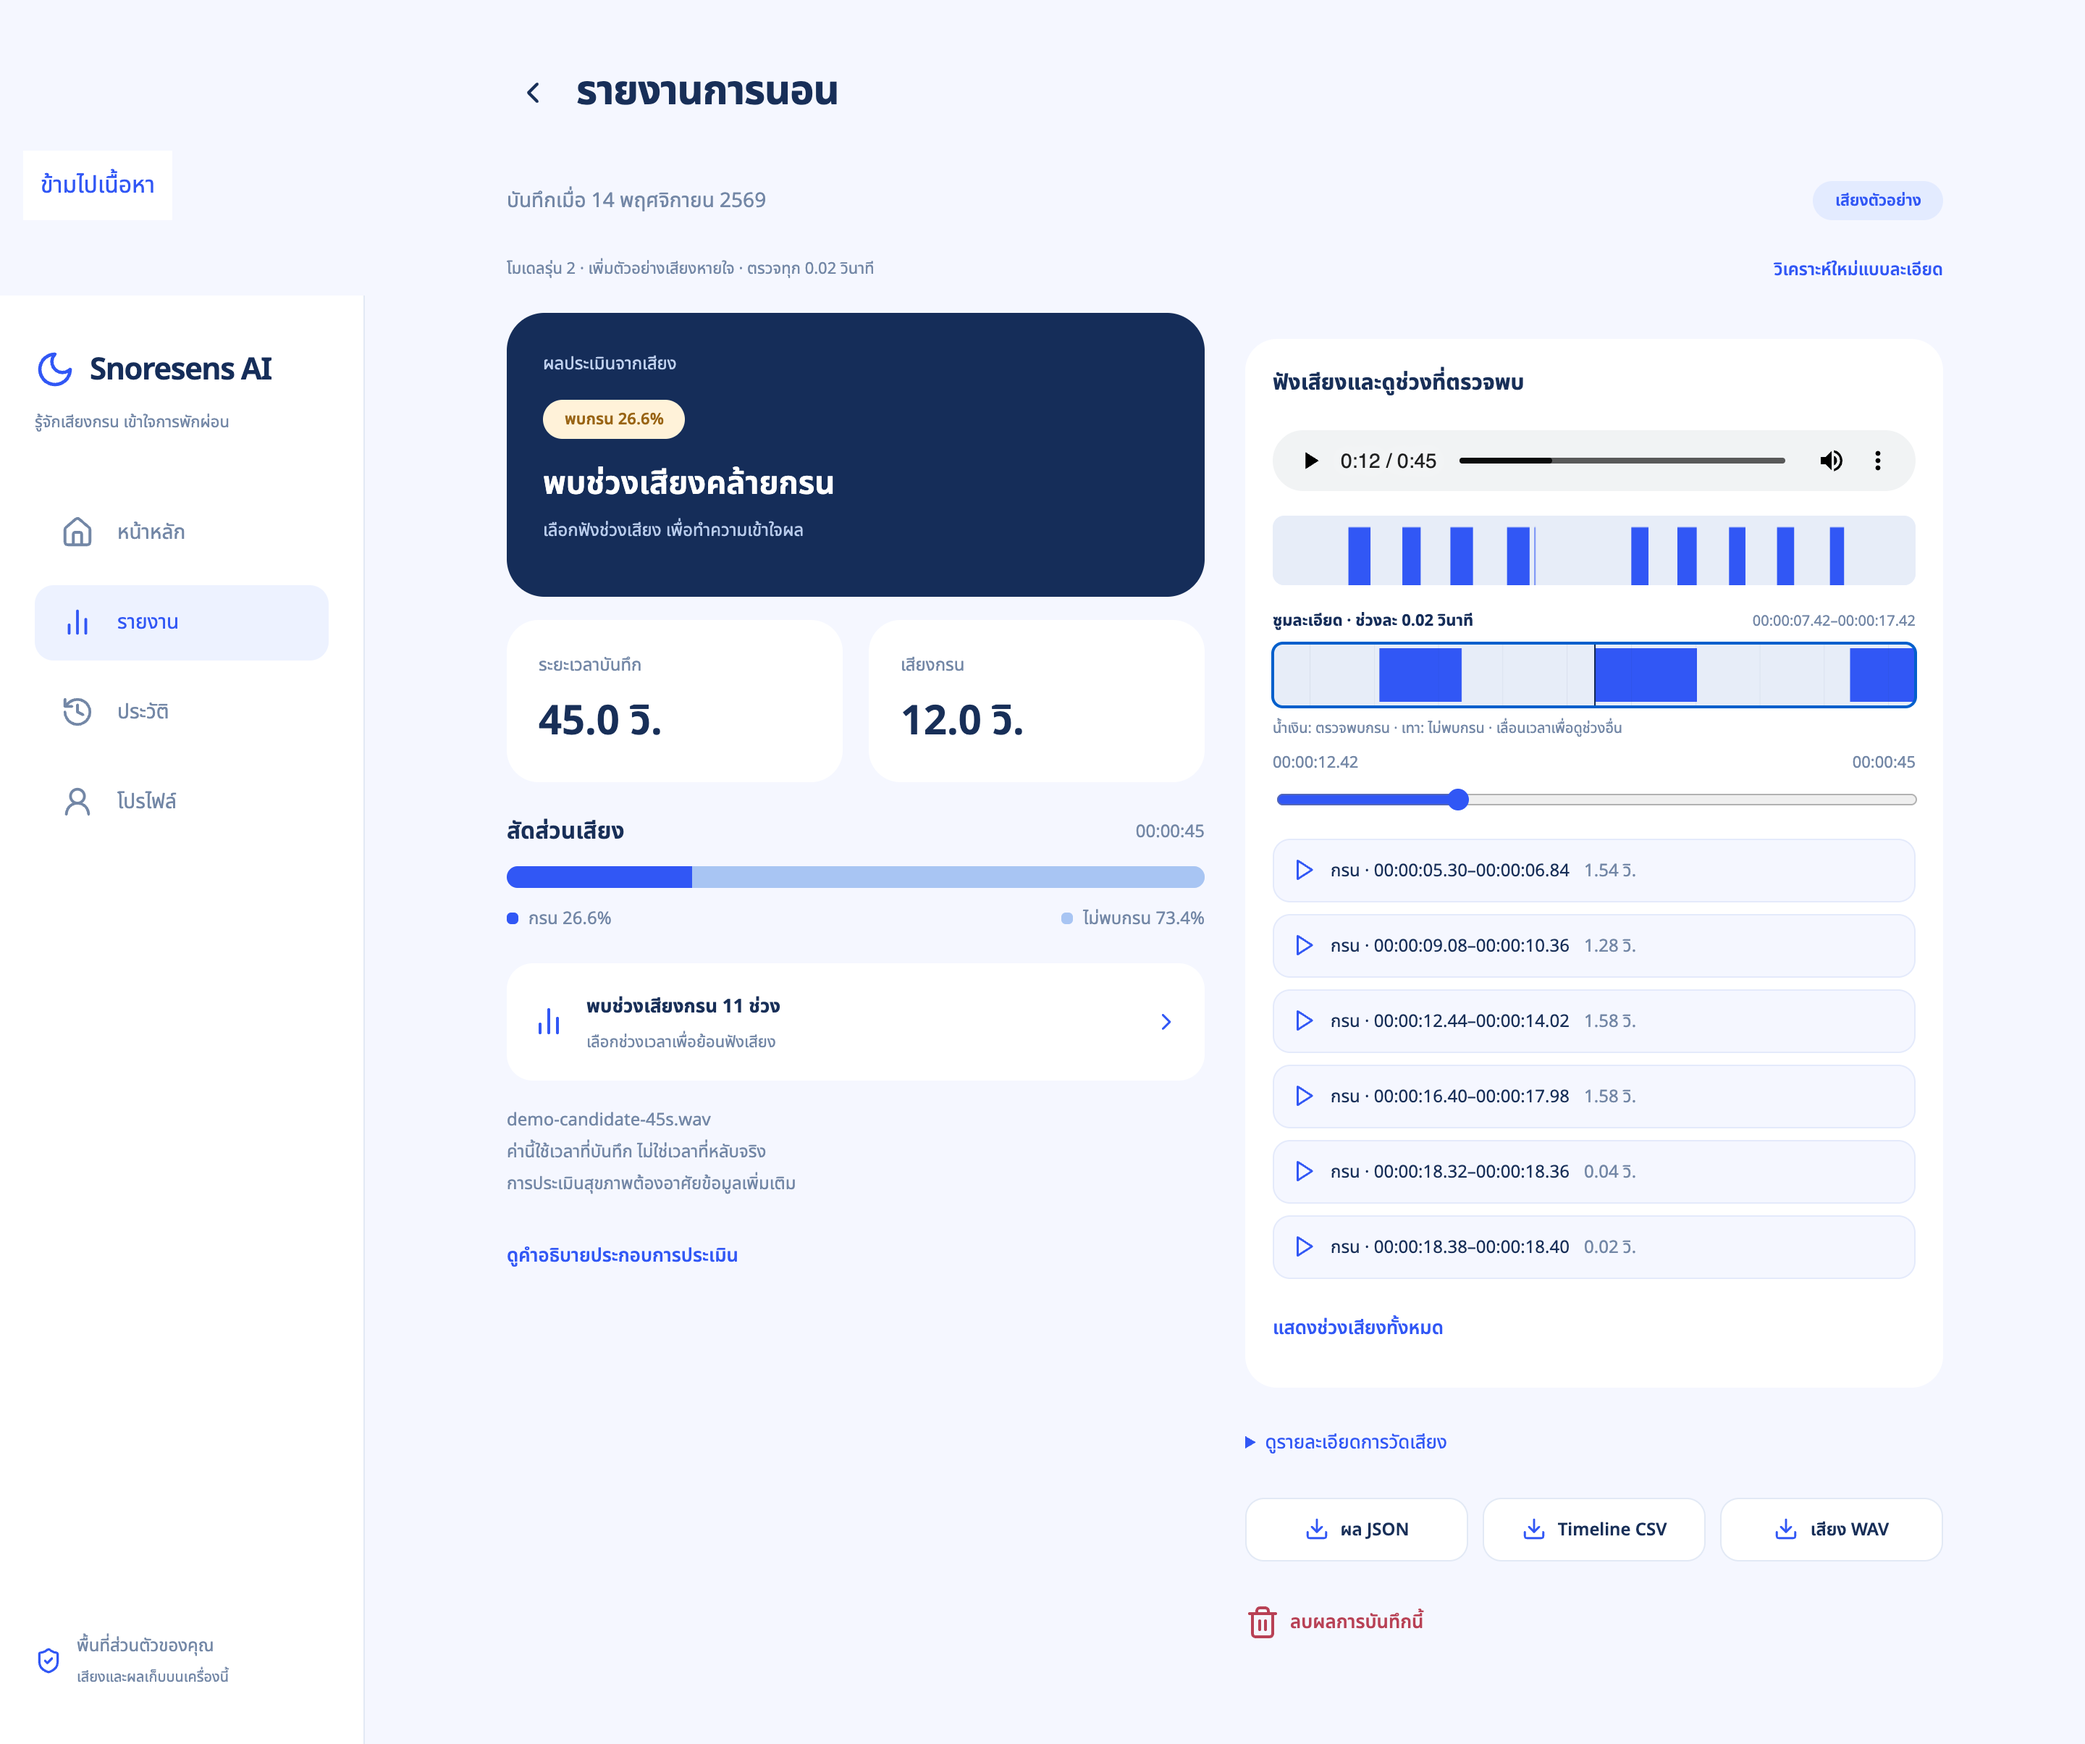
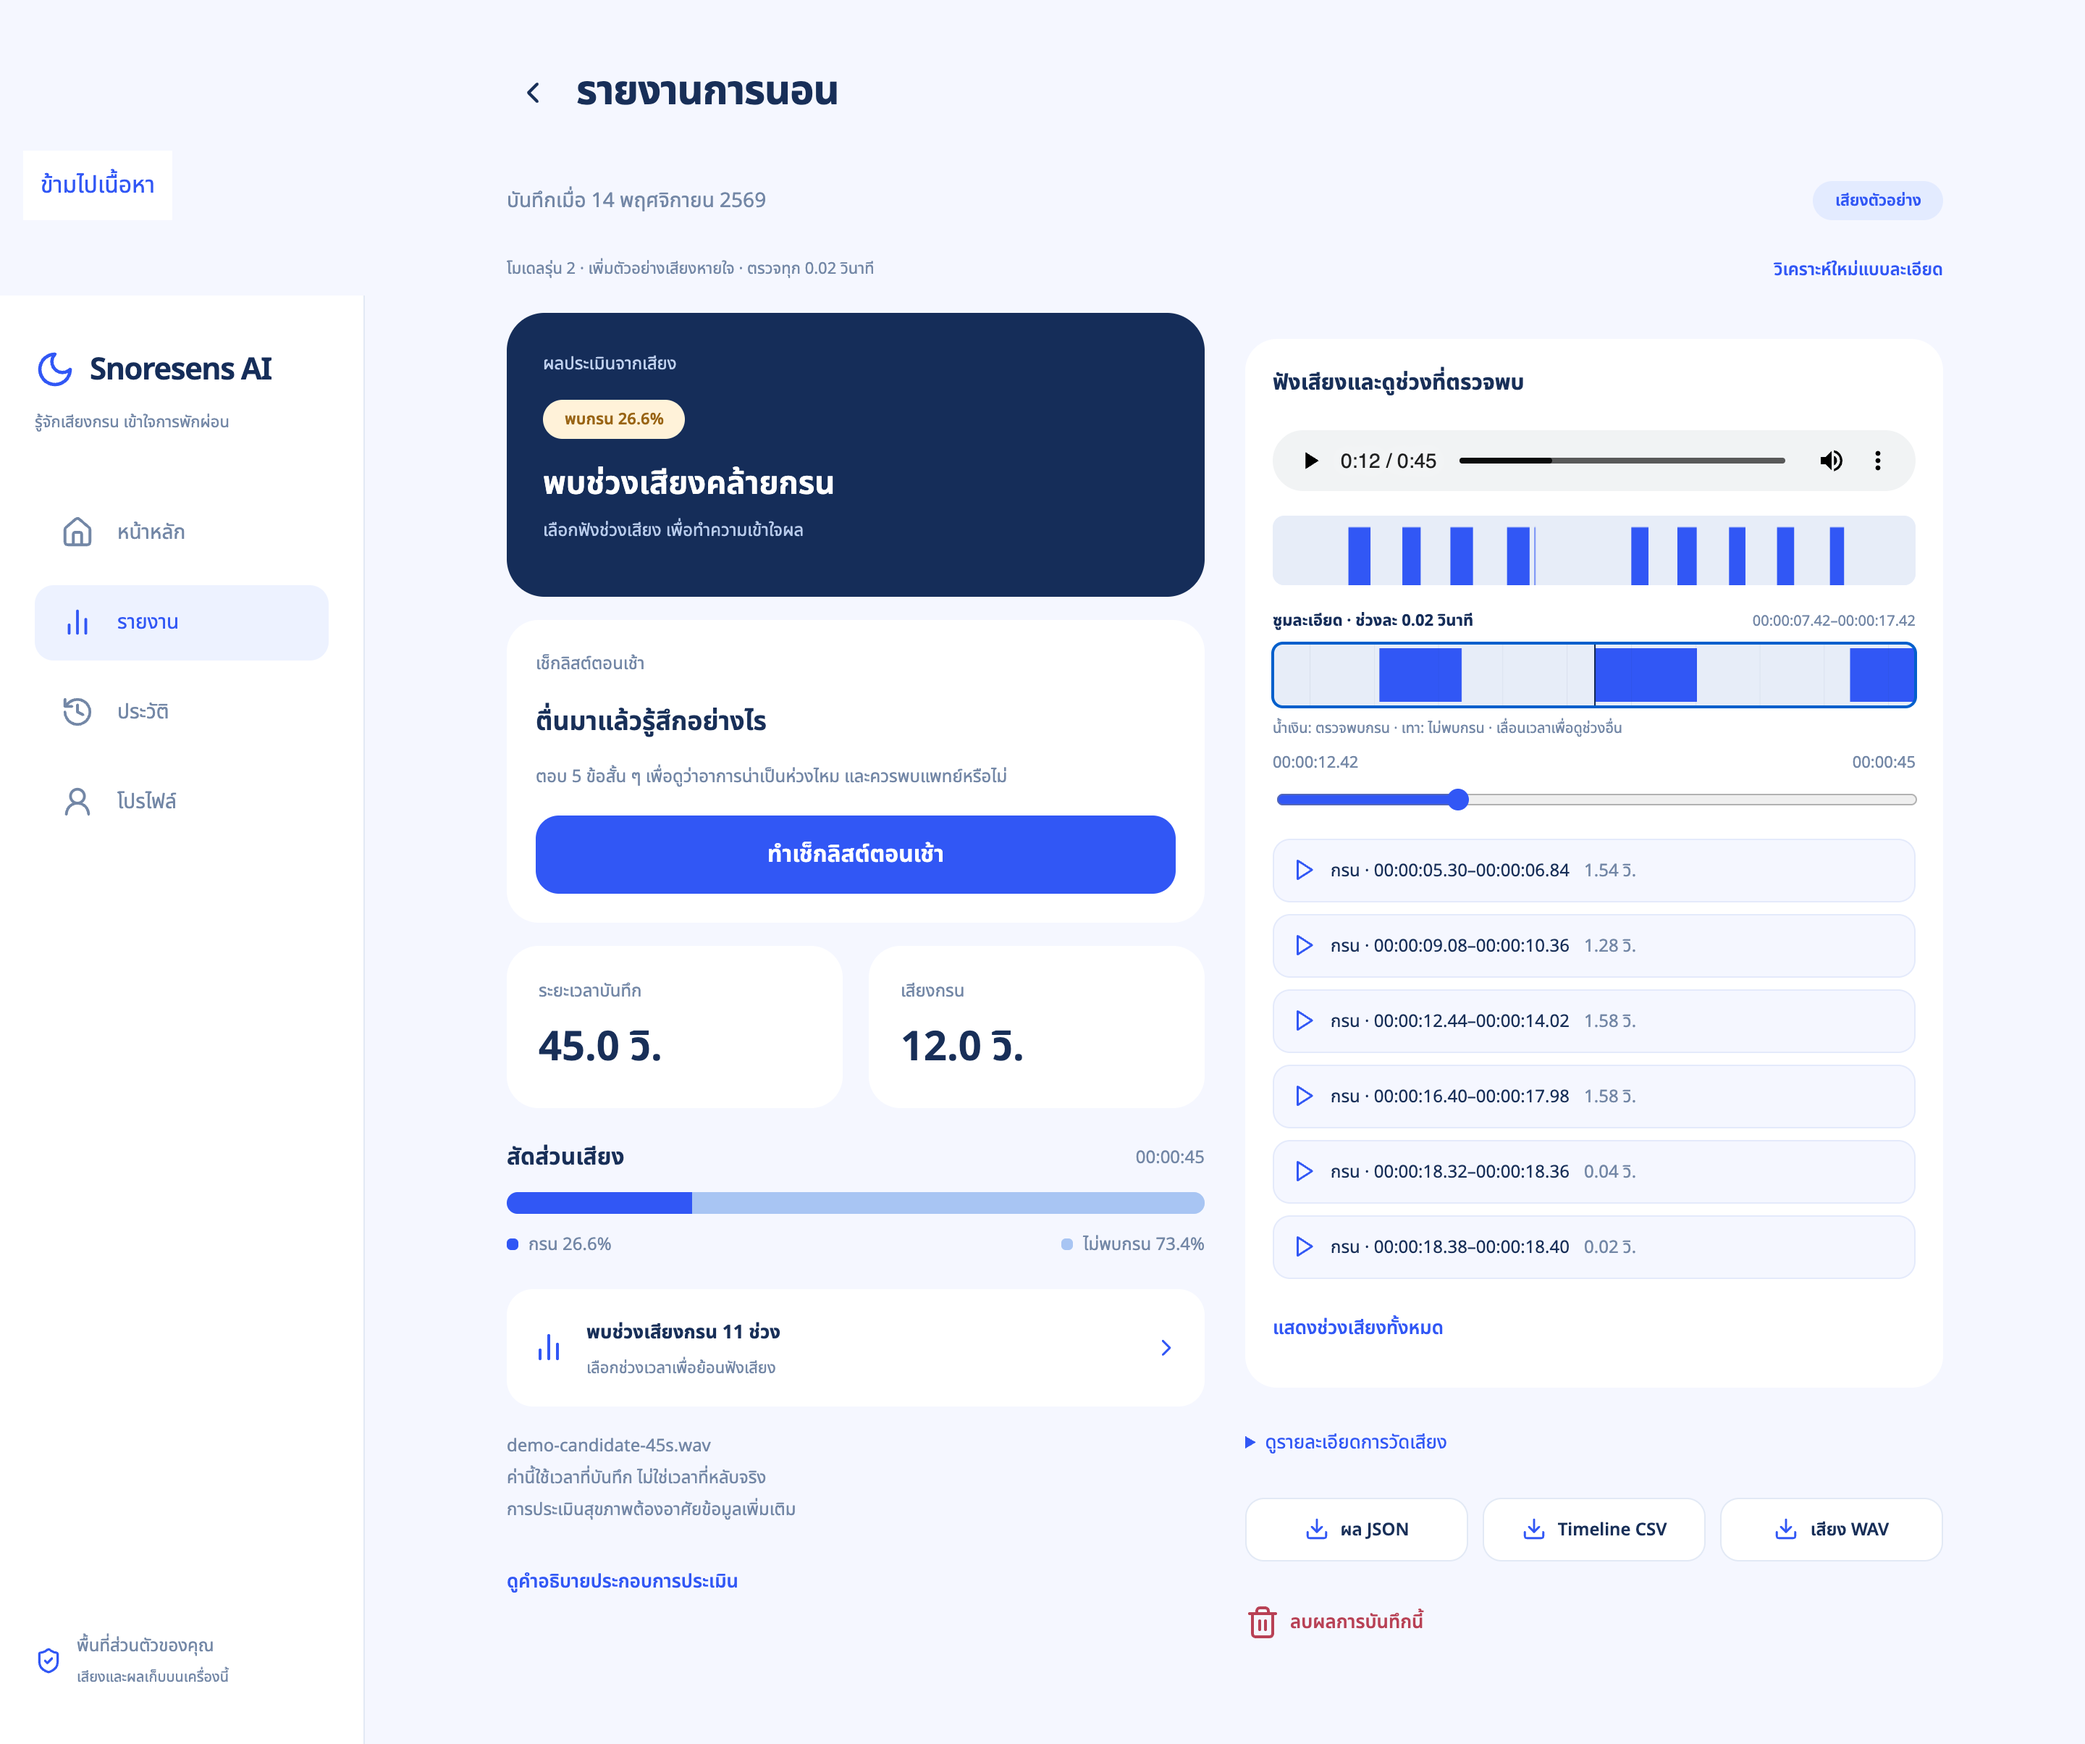
Record latest production checklist and 20 ms verification

diff --git a/docs/SNORESENS_DEPLOYMENT_TH.md b/docs/SNORESENS_DEPLOYMENT_TH.md
@@ -6,7 +6,11 @@ URL: https://snoresens-ai-int182.vercel.app
 
 เผยแพร่ production สำเร็จวันที่ 14 พฤศจิกายน 2026 สถานะ Vercel `READY`
 
-- Deployment ปัจจุบัน (ขอบเขต 20 ms): `dpl_XHoBLfecmimiU6pgwCygAbqzMNGe`
+- Deployment ปัจจุบัน (เช็กลิสต์ + 20 ms): `dpl_4XkxMsSx5quLJxFyw1AACBUUWLWP`
+- Source commit: `cb5705a5dbbbc3d4145cac0ae5d8eed8e5186aa0` บน branch `deploy/risk-assessment-20ms`
+- รวม feature ล่าสุด `a7a81ec` ของ Phurin กับ main เดิม เพื่อไม่ย้อนกลับไปใช้ 0.1 วินาที; ยังไม่ได้ merge branch สำหรับ deploy เข้า main
+- ตรวจ provenance ของเว็บได้ที่ `/build-info.json`
+- Deployment ก่อนหน้า (20 ms): `dpl_XHoBLfecmimiU6pgwCygAbqzMNGe`
 - Deployment รุ่น 2 ก่อนปรับขอบเขต: `dpl_B6YRM97CyxyjfFoaav7afsxtTz46`
 - Source: `deployments/snoresens-vercel`
 - ลิงก์ production เปิดหน้าเว็บและ WASM ได้ HTTP 200 โดยไม่ต้องส่ง Site owner QA credential
@@ -49,3 +53,8 @@ URL: https://snoresens-ai-int182.wrybarge4.chatgpt.site
 เวอร์ชันในเครื่องยังใช้ Python ที่ http://127.0.0.1:8765 และ /lab ตามเดิม เครื่องมือวิเคราะห์ spectral/breathing ขั้นสูงของ Python ไม่ได้รวมในเว็บ static ออนไลน์ จึงไม่แสดงลิงก์เครื่องมือที่ใช้ไม่ได้
 
 ภาพสำหรับพรีเซนต์เก็บที่ exports/demo-presentation/ พร้อมคำอธิบายที่มาของเสียงและข้อจำกัดของภาพไมโครโฟนจำลอง
+
+
+## ตรวจหลัง deploy เช็กลิสต์
+
+Node 20 tests ผ่าน ตรวจ production จริงผ่าน `docs/check_morning_checklist_browser.py` 12 ข้อ: คำถามการหายใจ 5 ข้อ, ห้ามบันทึกแบบไม่ครบ, บันทึก/แก้ไขคำตอบ, export, reload, เก็บคำตอบหลังวิเคราะห์เสียงจริงใหม่, ประวัติไม่แยกการวิเคราะห์ซ้ำเป็นคนละคืน, มือถือไม่ล้น, ไม่มี JS errors หรือ POST ส่งเสียง/คำตอบออกไป และ `docs/check_snore_boundaries_browser.py` ผ่าน 14 ข้อ หลักฐานอยู่ใน `results/segmentation-debug/risk-checklist-browser-checks.json` และ `production-micro20-checks.json` ใช้ข้อมูลเดโมและคำตอบจำลองใน browser profile แยก ไม่ได้ตรวจความแม่นยำเชิงคลินิกของเช็กลิสต์
